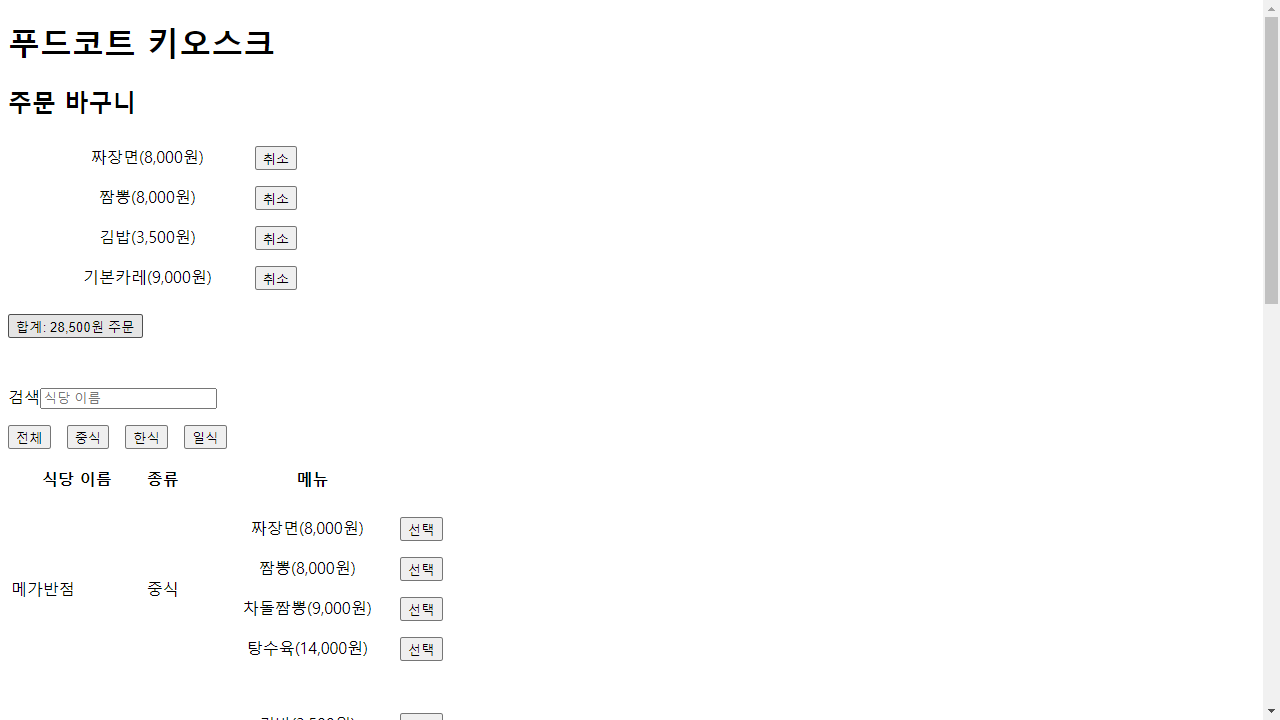
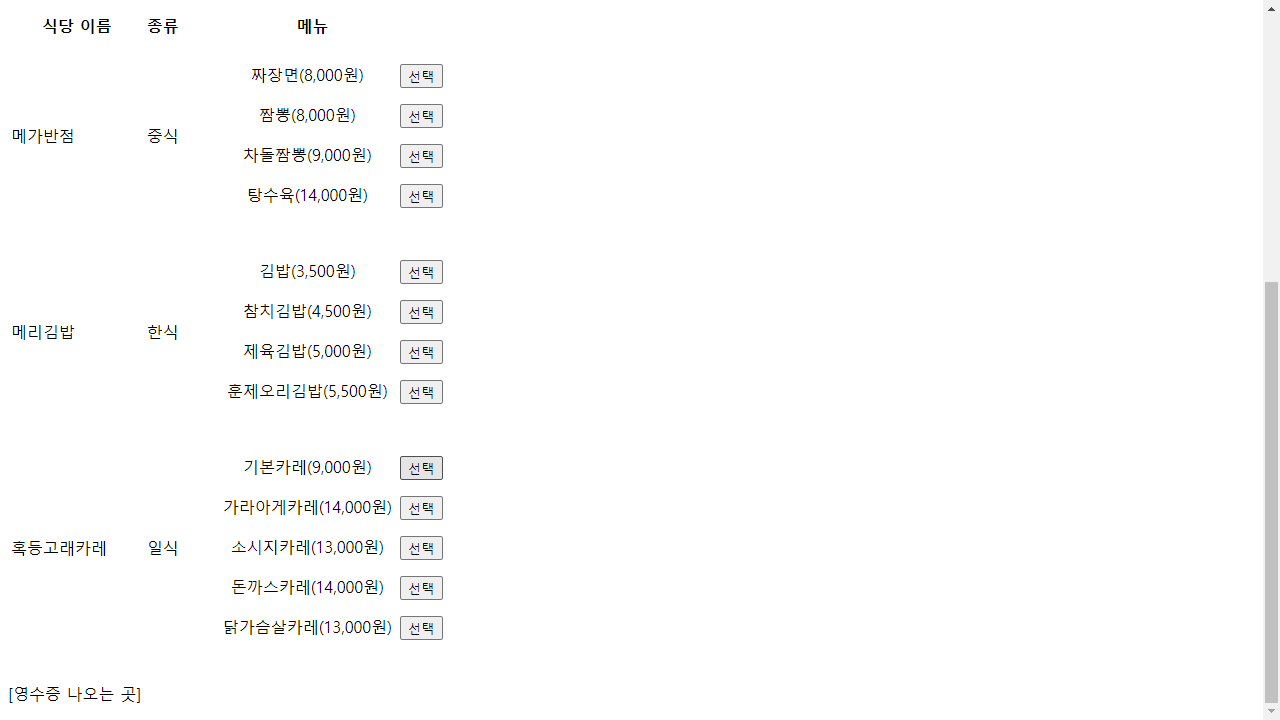
mod: 수정

diff --git a/express-app/app.ts b/express-app/app.ts
@@ -4,8 +4,25 @@ import cors from 'cors';
 const port = 3000;
 
 const app = express();
+
 app.use(cors());
 app.use(express.json());
+
+app.get('/', (req, res) => {
+  res.send('Hello, world!');
+});
+
+app.post('/orders', (req, res) => {
+  const { menu, totalPrice } = req.body;
+
+  const receipt = {
+    id: Date.now().toString(),
+    menu,
+    totalPrice,
+  };
+
+  res.status(201).send({ receipt });
+});
 
 app.get('/restaurants', (req, res) => {
   const restaurants = [
@@ -29,66 +46,23 @@ app.get('/restaurants', (req, res) => {
         { id: '6', name: '참치김밥', price: 4500 },
         { id: '7', name: '제육김밥', price: 5000 },
         { id: '8', name: '훈제오리김밥', price: 5500 },
-        { id: '9', name: '컵라면', price: 2000 },
       ],
     },
     {
       id: '3',
-      category: '한식',
-      name: '데브부엌',
-      menu: [
-        { id: '10', name: '제육덮밥', price: 10000 },
-        { id: '11', name: '닭떡국', price: 9000 },
-        { id: '12', name: '닭개장', price: 11000 },
-        { id: '13', name: '돈까스', price: 1000 },
-      ],
-    },
-    {
-      id: '4',
-      category: '일식',
-      name: '로드스시',
-      menu: [
-        { id: '14', name: '모듬초밥', price: 14000 },
-        { id: '15', name: '특선초밥', price: 17900 },
-        { id: '16', name: '스페셜초밥', price: 21000 },
-      ],
-    },
-    {
-      id: '5',
       category: '일식',
       name: '혹등고래카레',
       menu: [
-        { id: '17', name: '기본카레', price: 9000 },
-        { id: '18', name: '가라아게카레', price: 14000 },
-        { id: '19', name: '소시지카레', price: 13000 },
-        { id: '20', name: '돈까스카레', price: 14000 },
-        { id: '21', name: '닭가슴살카레', price: 13000 },
-      ],
-    },
-    {
-      id: '6',
-      category: '한식',
-      name: '메가김치찌개',
-      menu: [
-        { id: '22', name: '김치찌개1인', price: 8000 },
-        { id: '23', name: '된장찌개', price: 8000 },
-        { id: '24', name: '계란말이', price: 6000 },
+        { id: '9', name: '기본카레', price: 9000 },
+        { id: '10', name: '가라아게카레', price: 14000 },
+        { id: '11', name: '소시지카레', price: 13000 },
+        { id: '12', name: '돈까스카레', price: 14000 },
+        { id: '13', name: '닭가슴살카레', price: 13000 },
       ],
     },
   ];
+
   res.send({ restaurants });
-});
-
-app.post('/order', (req, res) => {
-  const { menu, totalPrice } = req.body;
-
-  const receipt = {
-    id: Date.now().toString(),
-    menu,
-    totalPrice,
-  };
-
-  res.status(201).send({ receipt });
 });
 
 app.listen(port, () => {
